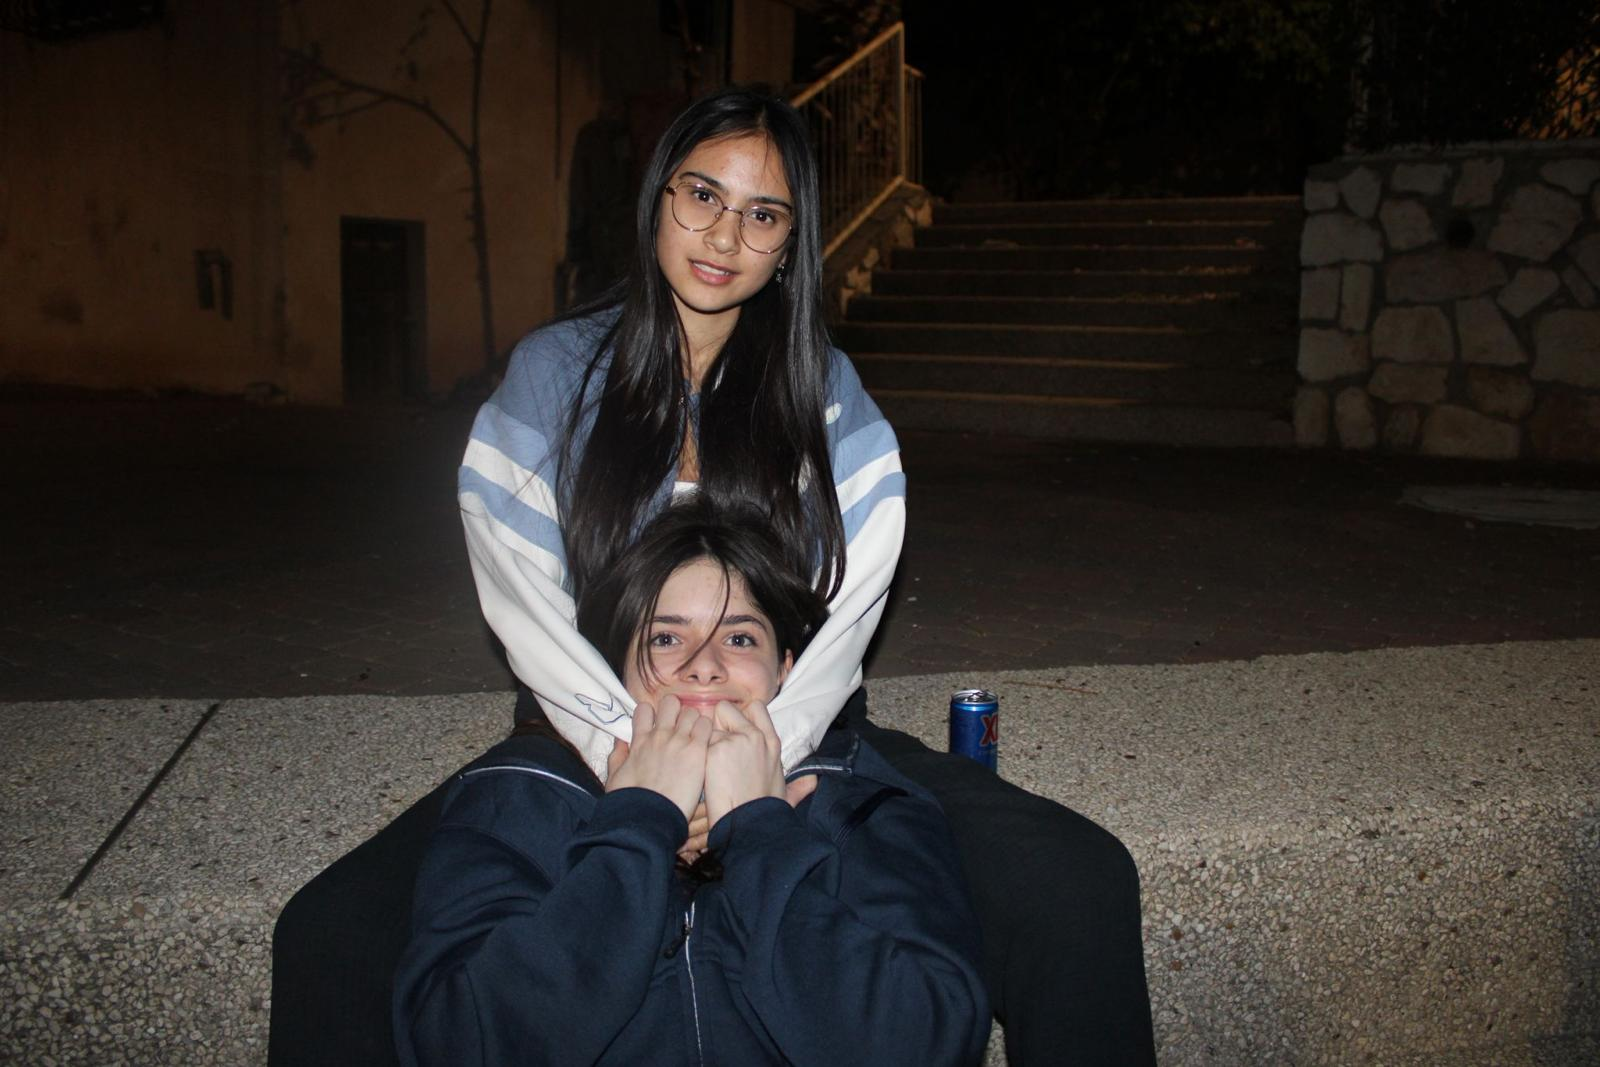
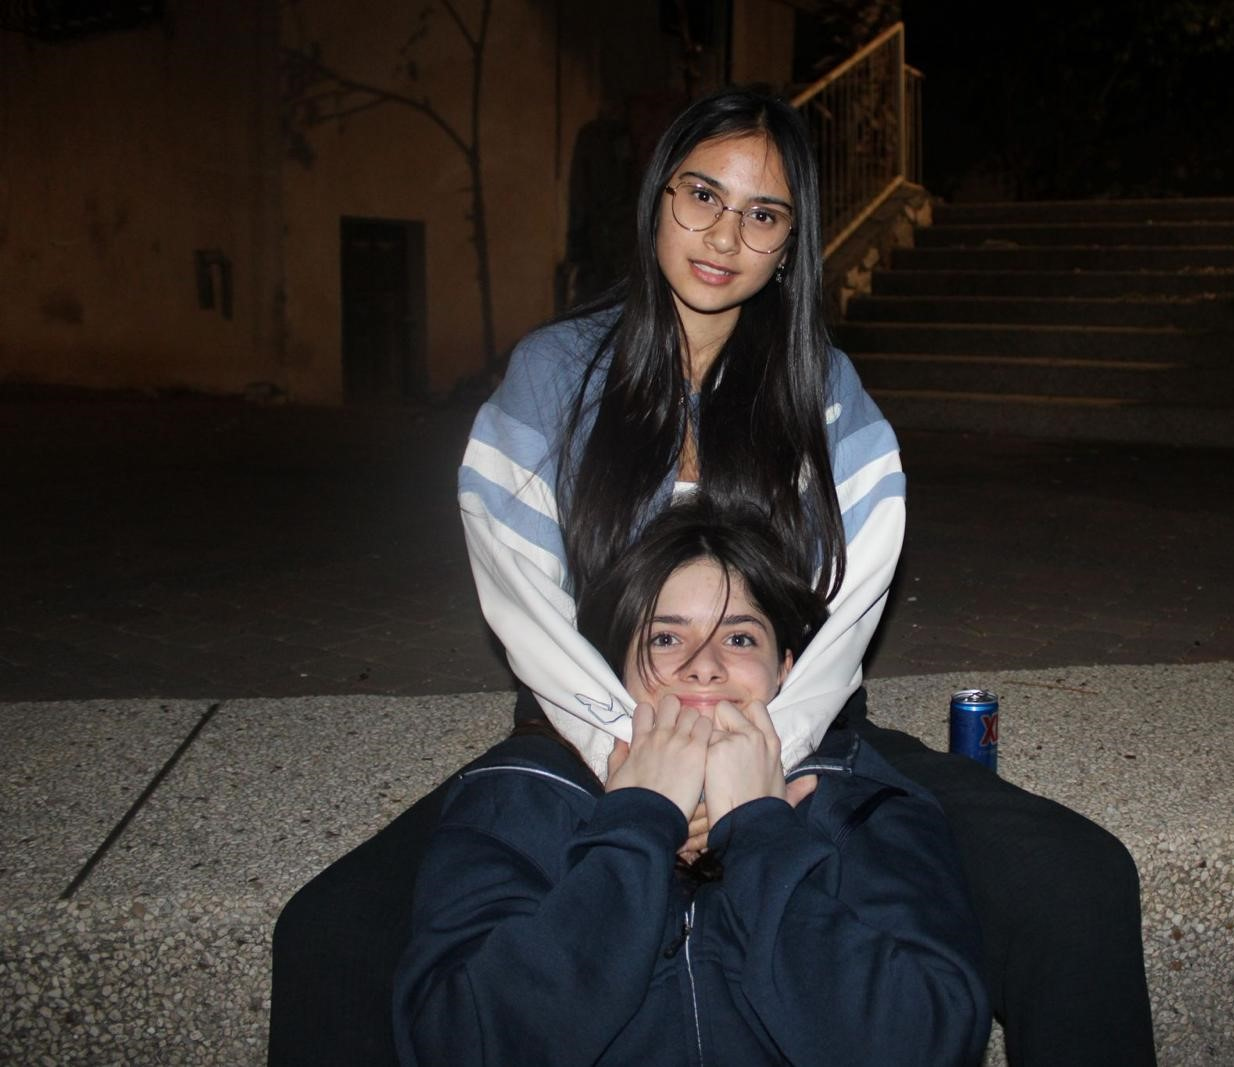
photo3 zoom out

diff --git a/index.html b/index.html
@@ -332,6 +332,10 @@
                 background-color: #000;
             }
 
+            .slide-zoom-out {
+                background-size: 80%;
+            }
+
             .music-control {
                 bottom: 20px;
                 right: 20px;
@@ -564,6 +568,10 @@
                 slide.style.backgroundImage = `url('${imagePath}')`;
                 if (index === 0) {
                     slide.classList.add('active');
+                }
+                // Add special class for photo3 (index 2)
+                if (index === 2) {
+                    slide.classList.add('slide-zoom-out');
                 }
                 slideshowContainer.appendChild(slide);
             });
